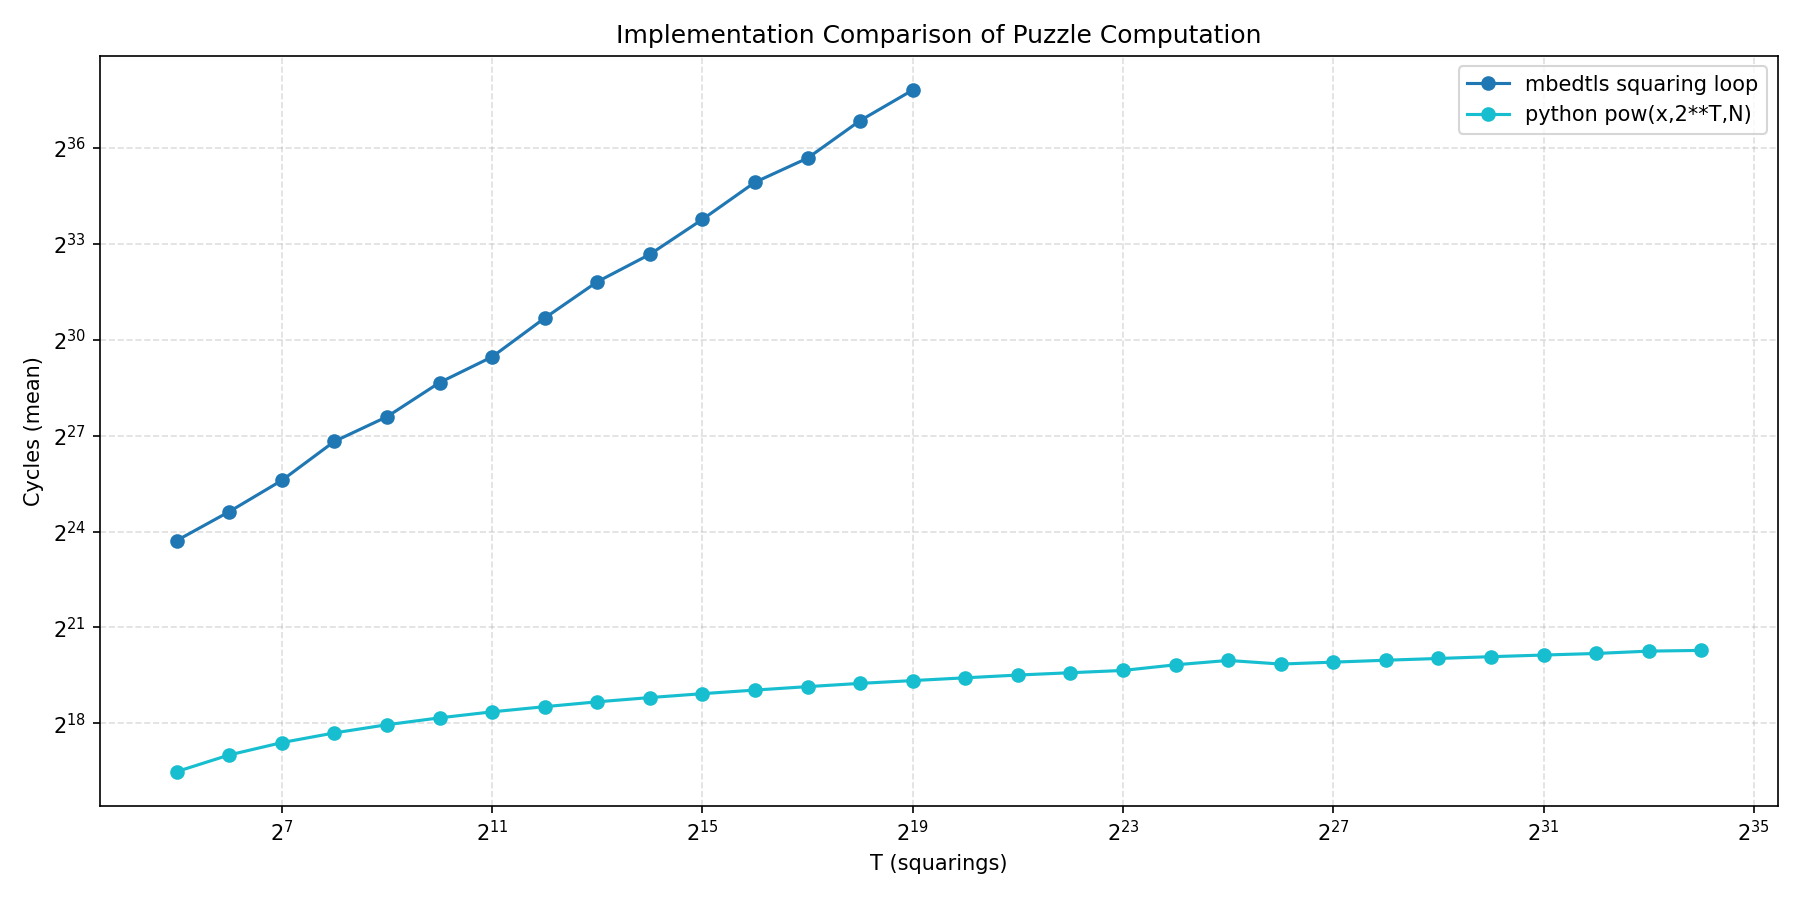
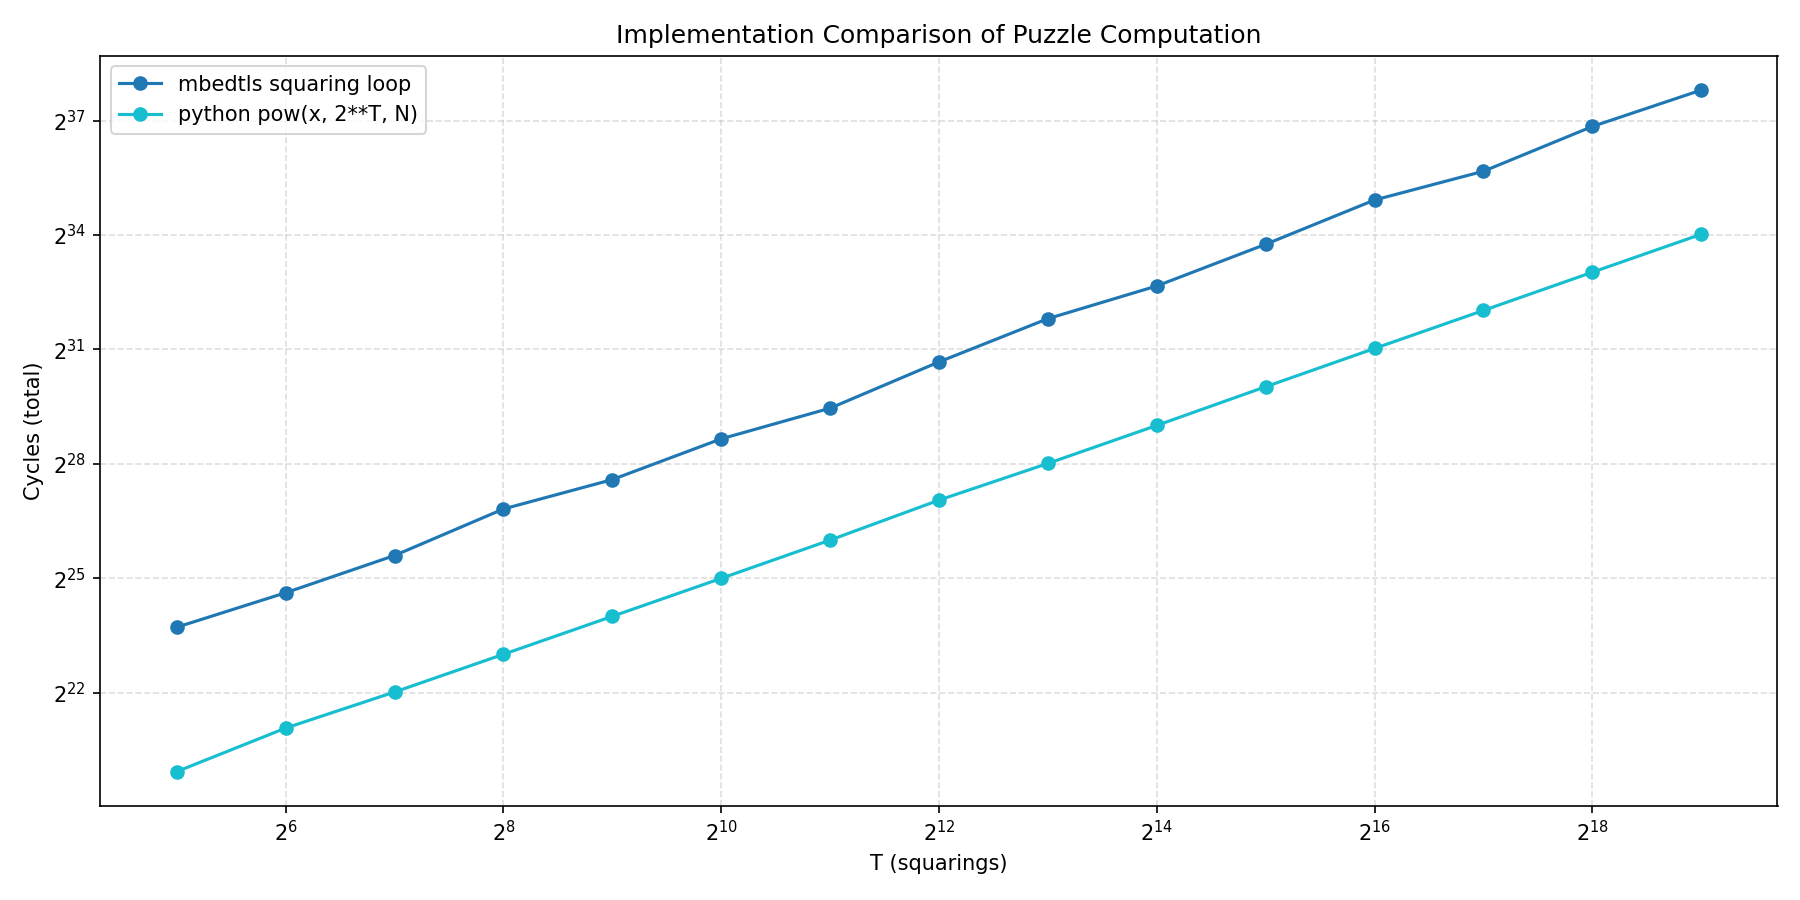
new figures, corrected python measurement

diff --git a/TLP_INTEL_SGX/eval.py b/TLP_INTEL_SGX/eval.py
@@ -128,13 +128,13 @@ def gather_data():
     #         private_set_size=100,
     #     )
     # print("cycles done")
-    # with open(f"{DATA_DIR}/cycles_py_2.csv", "w", newline="") as f:
-    #     writer = csv.writer(f)
-    #     writer.writerow(["T","Time","Cycles"])
-    #     for t in range(5,35):
-    #         cycles, ms = measure(t)
-    #         writer.writerow([2**t + 7, ms, cycles])
-# 
+    with open(f"{DATA_DIR}/cycles_py.csv", "w", newline="") as f:
+        writer = csv.writer(f)
+        writer.writerow(["T","Time","Cycles"])
+        for t in range(5,20):
+            cycles, ms = measure(2**t)
+            writer.writerow([(2**t), ms, cycles])
+
 #     out = f"{DATA_DIR}/vary_exp_cycles.csv"
 #     if os.path.exists(out):
 #         os.remove(out)
@@ -189,15 +189,15 @@ def gather_data():
     #         private_set_digits=4
     #     )
 
-    for n_bits in range(6, 11):
-        for T_exp in range(5, 16):
-            run_once(
-                elements=[42],
-                log=2,
-                log_file="vary_T_num_bits",
-                T_exp=T_exp,
-                num_bits=2**n_bits
-            )
+    # for n_bits in range(6, 11):
+    #     for T_exp in range(5, 16):
+    #         run_once(
+    #             elements=[42],
+    #             log=2,
+    #             log_file="vary_T_num_bits",
+    #             T_exp=T_exp,
+    #             num_bits=2**n_bits
+    #         )
     
     
 
@@ -604,7 +604,7 @@ def plot_encl_data(df, y_cols, title, ylabel, xlabel, logy, save_path=None):
     plt.close(fig)
 
 if __name__ == "__main__":
-    # gather_data()
+    gather_data()
 
 #     df_T = pd.read_csv(f"{DATA_DIR}/vary_T_exp.csv")
 #     df_T.columns = df_T.columns.str.strip()
@@ -658,10 +658,10 @@ if __name__ == "__main__":
 #         save_path=f"{FIG_DIR}/all_times_vs_reqsize.png"
 #     )
 # 
-#     df_C = pd.read_csv(f"{DATA_DIR}/cycles.csv.cycles.csv")
-#     df_C.columns = df_C.columns.str.strip()
-#     cap = df_C.groupby("T")["Cycles"].transform(lambda x: x.quantile(0.99))
-#     df_C["Cycles"] = df_C["Cycles"].clip(upper=cap)
+    df_C = pd.read_csv(f"{DATA_DIR}/cycles.csv.cycles.csv")
+    df_C.columns = df_C.columns.str.strip()
+    cap = df_C.groupby("T")["Cycles"].transform(lambda x: x.quantile(0.99))
+    df_C["Cycles"] = df_C["Cycles"].clip(upper=cap)
 # 
 #     plot_cycles_variance(
 #         df_C,
@@ -680,23 +680,20 @@ if __name__ == "__main__":
 #         save_path=f"{FIG_DIR}/cycles_box_plot.png"
 #     )
 # 
-#     df_Cpy = pd.read_csv(f"{DATA_DIR}/cycles_py.csv")
-#     df_RS.columns = df_RS.columns.str.strip()
-# 
-#     df_Cpy2 = pd.read_csv(f"{DATA_DIR}/cycles_py_2.csv")
-#     df_RS.columns = df_RS.columns.str.strip()
-# 
-#     plot_implementations(
-#         data=[(df_C, "mbedtls squaring loop"),(df_Cpy, "python pow(x,2**T,N)")],
-#         title="Implementation Comparison of Puzzle Computation",
-#         save_path=f"{FIG_DIR}/cycles_impl_comp.png"
-#     )
-# 
-#     plot_implementations(
-#         data=[(df_Cpy2, "python puzzle computation")],
-#         title="Total Cycles vs. T",
-#         save_path=f"{FIG_DIR}/cycles_python.png"
-#     )
+    df_Cpy = pd.read_csv(f"{DATA_DIR}/cycles_py.csv")
+    df_Cpy.columns = df_Cpy.columns.str.strip()
+
+    plot_implementations(
+        data=[(df_C, "mbedtls squaring loop"),(df_Cpy, "python pow(x, 2**T, N)")],
+        title="Implementation Comparison of Puzzle Computation",
+        save_path=f"{FIG_DIR}/cycles_impl_comp.png"
+    )
+
+    plot_implementations(
+        data=[(df_Cpy, "python puzzle computation")],
+        title="Total Cycles vs. T",
+        save_path=f"{FIG_DIR}/cycles_python.png"
+    )
 # 
 #     df_E = pd.read_csv(f"{DATA_DIR}/vary_exp_cycles.csv")
 #     df_E.columns = df_E.columns.str.strip()
@@ -736,26 +733,26 @@ if __name__ == "__main__":
 #         logy=False,
 #         save_path=f"{FIG_DIR}/all_times_vs_priv_set_size.png"
 #     )
-
-    df_Encl = pd.read_csv(f"{DATA_DIR}/encl_data.csv")
-    df_Encl.columns = df_Encl.columns.str.strip()
-
-    plot_encl_data(
-        df_Encl,
-        y_cols=["SetConfigTime","InitTime","TeardownTime"],
-        title="All Enclave Times vs. Modulus Bits",
-        ylabel="Time (ms)",
-        xlabel="Number of Bits",
-        logy=False,
-        save_path=f"{FIG_DIR}/encl_times_vs_num_bits.png"
-    )
-
-    plot_T(
-        df_Encl[df_Encl["num_bits"] == 1024],
-        y_cols=["SetConfigTime","InitTime","TeardownTime"],
-        title="All Enclave Times vs. T",
-        ylabel="Time (ms)",
-        xlabel="T (squarings)",
-        logy=True,
-        save_path=f"{FIG_DIR}/encl_times_vs_T.png"
-    )
+# 
+#     df_Encl = pd.read_csv(f"{DATA_DIR}/encl_data.csv")
+#     df_Encl.columns = df_Encl.columns.str.strip()
+# 
+#     plot_encl_data(
+#         df_Encl,
+#         y_cols=["SetConfigTime","InitTime","TeardownTime"],
+#         title="All Enclave Times vs. Modulus Bits",
+#         ylabel="Time (ms)",
+#         xlabel="Number of Bits",
+#         logy=False,
+#         save_path=f"{FIG_DIR}/encl_times_vs_num_bits.png"
+#     )
+# 
+#     plot_T(
+#         df_Encl[df_Encl["num_bits"] == 1024],
+#         y_cols=["SetConfigTime","InitTime","TeardownTime"],
+#         title="All Enclave Times vs. T",
+#         ylabel="Time (ms)",
+#         xlabel="T (squarings)",
+#         logy=True,
+#         save_path=f"{FIG_DIR}/encl_times_vs_T.png"
+#     )